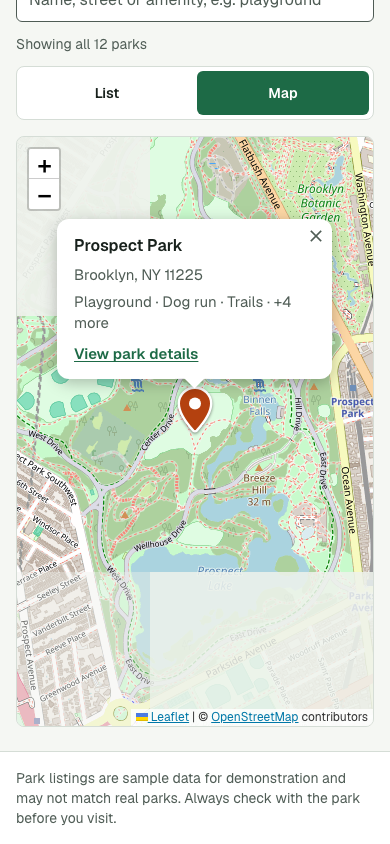
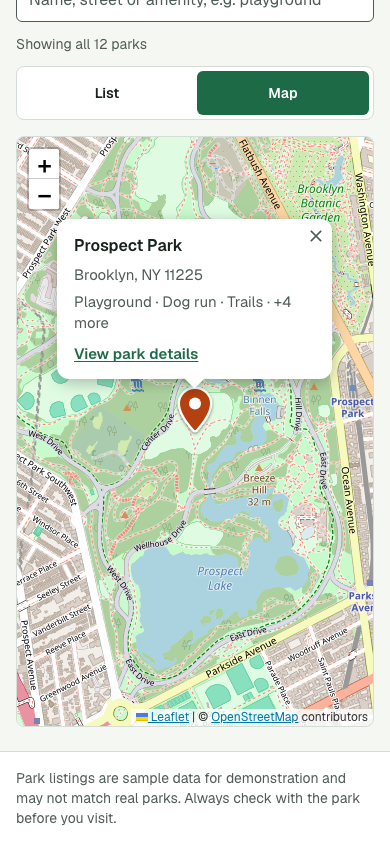
Center a park on the map when its card is clicked; settle screenshots
- On wide screens, clicking a list card (outside its links and buttons)
  selects the park and pans the map to it at the current zoom, without
  opening a popup or moving focus. 'Show on map' remains the keyboard
  path and still opens the popup.
- Screenshots now wait for every map tile to load and finish fading in.
- Fix a flaky e2e failure: a route handler from the 'map code fails'
  test could outlive its page and be reported against the next test.

Changed region(s): [[0.0308, 0.6777, 0.9538, 0.8626], [0.0308, 0.154, 0.4, 0.4005]]

diff --git a/src/components/park-map.tsx b/src/components/park-map.tsx
@@ -18,6 +18,12 @@ const POPUP_MAX_WIDTH = 220;
 
 export type ShowOnMapRequest = {
   parkId: string;
+  /**
+   * "open": zoom in if needed and open the park's popup ("Show on map").
+   * "center": just pan to it at the current zoom and select it (clicking a
+   * list card), without opening a popup or moving focus.
+   */
+  mode: "open" | "center";
   /** Changes on every request so asking for the same park twice still works. */
   nonce: number;
 };
@@ -45,6 +51,9 @@ export default function ParkMap({
   const [tilesFailed, setTilesFailed] = useState(false);
   const anyTileLoaded = useRef(false);
   const reducedMotion = usePrefersReducedMotion();
+  // Set while ShowOnMap closes a popup itself, so focus isn't pulled back to
+  // whatever opened that popup.
+  const closingQuietlyRef = useRef(false);
 
   return (
     <div className="park-map relative h-full w-full">
@@ -81,7 +90,7 @@ export default function ParkMap({
         />
         <InvalidateSizeOnResize />
         <MapKeyboardSupport instructionsId={instructionsId} />
-        <PopupFocusManager />
+        <PopupFocusManager closingQuietlyRef={closingQuietlyRef} />
         {parks.map((park) => (
           <ParkMarker
             key={park.id}
@@ -96,6 +105,8 @@ export default function ParkMap({
           request={showRequest}
           parks={parks}
           reducedMotion={reducedMotion}
+          onSelect={onSelect}
+          closingQuietlyRef={closingQuietlyRef}
         />
       </StableMapContainer>
       {tilesFailed && (
@@ -226,15 +237,19 @@ function ParkPopup({ park }: { park: ParkWithCoordinates }) {
   );
 }
 
-/** Pans to a park and opens its popup when the list asks for it. */
+/** Pans to a park (and maybe opens its popup) when the list asks for it. */
 function ShowOnMap({
   request,
   parks,
   reducedMotion,
+  onSelect,
+  closingQuietlyRef,
 }: {
   request: ShowOnMapRequest | null;
   parks: ParkWithCoordinates[];
   reducedMotion: boolean;
+  onSelect: (parkId: string | null) => void;
+  closingQuietlyRef: React.RefObject<boolean>;
 }) {
   const map = useMap();
   const handledNonce = useRef<number | null>(null);
@@ -253,6 +268,20 @@ function ShowOnMap({
     // The map may have just been revealed (mobile List/Map toggle) and still
     // think it is 0x0, which would break centering.
     map.invalidateSize();
+
+    if (request.mode === "center") {
+      // Another park's popup would contradict the new selection, so close it
+      // (its popupclose clears the selection; set it again after).
+      closingQuietlyRef.current = true;
+      map.closePopup();
+      closingQuietlyRef.current = false;
+      onSelect(park.id);
+      map.panTo([park.coordinates.lat, park.coordinates.lng], {
+        animate: !reducedMotion,
+      });
+      return;
+    }
+
     // Open the popup only once the map has arrived. Opening it during the
     // animation stops the pan partway (popup auto-pan and moving focus into
     // the popup both interrupt it), leaving the park off-center. Leaflet
@@ -327,7 +356,11 @@ function MapKeyboardSupport({ instructionsId }: { instructionsId: string }) {
  * whatever opened it (a marker or a "Show on map" button) when it closes, so
  * keyboard users never lose their place.
  */
-function PopupFocusManager() {
+function PopupFocusManager({
+  closingQuietlyRef,
+}: {
+  closingQuietlyRef: React.RefObject<boolean>;
+}) {
   const map = useMap();
 
   useEffect(() => {
@@ -359,7 +392,7 @@ function PopupFocusManager() {
         (container?.contains(active) ?? false);
       const returnTo = opener;
       opener = null;
-      if (!focusWasInPopup) return;
+      if (!focusWasInPopup || closingQuietlyRef.current) return;
 
       // Prefer the element that opened the popup. If it is gone or hidden
       // (the mobile list is hidden while the map shows), use the marker.
@@ -381,7 +414,7 @@ function PopupFocusManager() {
       map.off("popupopen", onOpen);
       map.off("popupclose", onClose);
     };
-  }, [map]);
+  }, [map, closingQuietlyRef]);
 
   return null;
 }

diff --git a/src/components/park-list.tsx b/src/components/park-list.tsx
@@ -14,9 +14,16 @@ type ParkListProps = {
   parks: Park[];
   selectedId: string | null;
   onShowOnMap: (parkId: string) => void;
+  /** Clicking a card (outside its links and buttons) centers it on the map. */
+  onCenterOnMap: (parkId: string) => void;
 };
 
-export function ParkList({ parks, selectedId, onShowOnMap }: ParkListProps) {
+export function ParkList({
+  parks,
+  selectedId,
+  onShowOnMap,
+  onCenterOnMap,
+}: ParkListProps) {
   return (
     // role="list" because Safari drops list semantics from unstyled lists.
     <ul role="list" className="flex flex-col gap-3" aria-label="Parks">
@@ -26,6 +33,7 @@ export function ParkList({ parks, selectedId, onShowOnMap }: ParkListProps) {
             park={park}
             selected={park.id === selectedId}
             onShowOnMap={onShowOnMap}
+            onCenterOnMap={onCenterOnMap}
           />
         </li>
       ))}
@@ -37,10 +45,12 @@ function ParkCard({
   park,
   selected,
   onShowOnMap,
+  onCenterOnMap,
 }: {
   park: Park;
   selected: boolean;
   onShowOnMap: (parkId: string) => void;
+  onCenterOnMap: (parkId: string) => void;
 }) {
   const headingId = `park-card-${park.id}`;
   const amenitiesId = `park-card-${park.id}-amenities`;
@@ -54,11 +64,18 @@ function ParkCard({
     : park.amenities.slice(0, CARD_AMENITY_LIMIT);
 
   return (
+    // A mouse shortcut only: the card's "Show on map" button does the same
+    // for keyboard and screen reader users, so the card itself isn't a control.
     <article
       aria-labelledby={headingId}
       data-park-card={park.id}
+      onClick={(event) => {
+        const onControl = (event.target as Element).closest("a, button");
+        if (park.coordinates && !onControl) onCenterOnMap(park.id);
+      }}
       className={cn(
         "flex flex-col gap-2 rounded-lg border bg-surface p-4 transition-colors",
+        park.coordinates && "lg:cursor-pointer",
         selected
           ? "border-accent bg-accent-soft ring-1 ring-accent"
           : "border-border",

diff --git a/scripts/screenshots.spec.ts b/scripts/screenshots.spec.ts
@@ -2,7 +2,26 @@
  * Regenerates the screenshots in docs/screenshots (used by the README).
  * Run with `pnpm screenshots`. Not part of the test suite.
  */
+import type { Page } from "@playwright/test";
 import { expect, test } from "../e2e/fixtures";
+
+/** Waits until every visible map tile has loaded and finished fading in. */
+async function waitForMapToSettle(page: Page) {
+  await page.waitForLoadState("networkidle");
+  await page.waitForFunction(() => {
+    const tiles = [...document.querySelectorAll<HTMLElement>(".leaflet-tile")];
+    return (
+      tiles.length > 0 &&
+      tiles.every(
+        (tile) =>
+          tile.classList.contains("leaflet-tile-loaded") &&
+          getComputedStyle(tile).opacity === "1",
+      ) &&
+      !document.querySelector(".leaflet-zoom-anim")
+    );
+  });
+  await page.waitForTimeout(300); // one more beat for marker and popup paint
+}
 
 const OUT = "docs/screenshots";
 
@@ -31,7 +50,7 @@ for (const [device, viewport] of Object.entries(sizes)) {
         await expect(
           page.getByRole("link", { name: /View park details/ }),
         ).toBeVisible();
-        await page.waitForTimeout(400); // let the pan animation settle
+        await waitForMapToSettle(page);
         await page.screenshot({
           path: `${OUT}/${device}-${colorScheme}-map.png`,
         });
@@ -42,7 +61,7 @@ for (const [device, viewport] of Object.entries(sizes)) {
         await expect(
           page.getByRole("img", { name: /Prospect Park Boathouse/ }),
         ).toBeVisible();
-        await page.waitForLoadState("networkidle");
+        await waitForMapToSettle(page); // the location preview
         await page.screenshot({
           path: `${OUT}/${device}-${colorScheme}-details.png`,
           fullPage: true,

diff --git a/e2e/regressions.spec.ts b/e2e/regressions.spec.ts
@@ -152,3 +152,38 @@ test("“Show on map” centers the park even when the map is already zoomed in"
   expect(Math.abs(tipX - (map.x + map.width / 2))).toBeLessThan(5);
   expect(Math.abs(tipY - (map.y + map.height / 2))).toBeLessThan(5);
 });
+
+test("clicking a park's card centers it on the map at the current zoom", async ({
+  page,
+}, testInfo) => {
+  test.skip(isMobile(testInfo.project.name), "list and map side by side only");
+  await page.goto("/");
+  await expect(page.locator(".park-marker")).toHaveCount(12);
+  const zoom = () =>
+    page
+      .locator(".leaflet-tile")
+      .first()
+      .getAttribute("src")
+      .then((src) => src?.split("/").at(-3));
+  const zoomBefore = await zoom();
+
+  // Click the card itself (its address), not its links or buttons.
+  await page
+    .locator('[data-park-card="willow-creek-wetlands"]')
+    .getByText("Creek Rd")
+    .click();
+  await expect(
+    page.locator('[data-park-card="willow-creek-wetlands"]'),
+  ).toHaveAttribute("class", /border-accent/);
+  await expect(page.locator(".park-marker--selected")).toHaveCount(1);
+  await expect(page.locator(".leaflet-popup")).toHaveCount(0);
+  await page.waitForTimeout(600); // let the pan finish
+
+  const map = (await page.locator(".leaflet-container").boundingBox())!;
+  const pin = (await page
+    .locator('.park-marker[data-park-id="willow-creek-wetlands"]')
+    .boundingBox())!;
+  expect(Math.abs(pin.x + 22 - (map.x + map.width / 2))).toBeLessThan(5);
+  expect(Math.abs(pin.y + 42 - (map.y + map.height / 2))).toBeLessThan(5);
+  expect(await zoom()).toBe(zoomBefore);
+});

diff --git a/src/components/park-list.test.tsx b/src/components/park-list.test.tsx
@@ -30,12 +30,13 @@ const sparse: Park = {
   rating: null,
 };
 
-function renderList(onShowOnMap = vi.fn()) {
+function renderList(onShowOnMap = vi.fn(), onCenterOnMap = vi.fn()) {
   render(
     <ParkList
       parks={[full, sparse]}
       selectedId={null}
       onShowOnMap={onShowOnMap}
+      onCenterOnMap={onCenterOnMap}
     />,
   );
   return {
@@ -93,6 +94,28 @@ describe("ParkList", () => {
       within(sparse).queryByRole("list", { name: "Amenities" }),
     ).toBeNull();
     expect(within(sparse).queryByRole("button")).toBeNull();
+  });
+
+  it("centers a park when its card is clicked, but not via its controls", async () => {
+    const onShowOnMap = vi.fn();
+    const onCenterOnMap = vi.fn();
+    const { full, sparse } = renderList(onShowOnMap, onCenterOnMap);
+
+    await userEvent.click(within(full).getByText("1 Main St"));
+    expect(onCenterOnMap).toHaveBeenCalledWith("full-park");
+
+    onCenterOnMap.mockClear();
+    await userEvent.click(
+      within(full).getByRole("button", { name: /Show on map/ }),
+    );
+    await userEvent.click(
+      within(full).getByRole("button", { name: /more amenities/ }),
+    );
+    expect(onCenterOnMap).not.toHaveBeenCalled();
+
+    // A park with no location has nothing to center on.
+    await userEvent.click(within(sparse).getByText("Address not listed"));
+    expect(onCenterOnMap).not.toHaveBeenCalled();
   });
 
   it("asks to show the park on the map", async () => {

diff --git a/src/components/park-explorer.tsx b/src/components/park-explorer.tsx
@@ -22,6 +22,9 @@ const ParkMap = dynamic(() => import("./park-map"), {
 
 type View = "list" | "map";
 
+/** Matches Tailwind's `lg` breakpoint, where list and map sit side by side. */
+const SIDE_BY_SIDE_QUERY = "(min-width: 64rem)";
+
 /**
  * The list and the map side by side (or one at a time on small screens),
  * with a shared search and a shared selection: opening a marker highlights
@@ -58,6 +61,18 @@ export function ParkExplorer({ parks }: { parks: Park[] }) {
     setView("map");
     setShowRequest((previous) => ({
       parkId,
+      mode: "open",
+      nonce: (previous?.nonce ?? 0) + 1,
+    }));
+  }, []);
+
+  // Clicking a card centers its park on the map, but only where the map is
+  // next to the list; on phones a tap on a card shouldn't switch views.
+  const centerOnMap = useCallback((parkId: string) => {
+    if (!window.matchMedia(SIDE_BY_SIDE_QUERY).matches) return;
+    setShowRequest((previous) => ({
+      parkId,
+      mode: "center",
       nonce: (previous?.nonce ?? 0) + 1,
     }));
   }, []);
@@ -104,6 +119,7 @@ export function ParkExplorer({ parks }: { parks: Park[] }) {
             parks={results}
             selectedId={selectedId}
             onShowOnMap={showOnMap}
+            onCenterOnMap={centerOnMap}
           />
         ) : (
           <div className="flex flex-col items-start gap-3 rounded-lg border border-dashed border-border p-6">

diff --git a/e2e/home.spec.ts b/e2e/home.spec.ts
@@ -243,5 +243,9 @@ test.describe("when the map can't load", () => {
       await page.getByRole("link", { name: "Prospect Park" }).click();
       await expect(page).toHaveURL(/\/parks\/prospect-park$/);
     }
+    // Stop intercepting before the page closes; otherwise an in-flight
+    // handler can throw "Response has been disposed", which Playwright then
+    // reports against whichever test runs next in this worker.
+    await page.unrouteAll({ behavior: "ignoreErrors" });
   });
 });

diff --git a/README.md b/README.md
@@ -48,7 +48,9 @@ it); locally it reuses a server already running on that port. CI
   name links to its details page.
 - **Map** (Leaflet + OpenStreetMap tiles) with a marker per park. Selecting a
   marker opens a summary with a link to the park's details, and highlights
-  the park in the list. "Show on map" on a list card does the reverse.
+  the park in the list. "Show on map" on a list card does the reverse, and
+  on wide screens clicking a card centers its park on the map (keeping your
+  zoom).
 - **Park details** page for each park: description, amenities, photos,
   hours, address, size, rating and a "Get directions" link (Google Maps, no
   key needed). Every page has its own URL and title.
@@ -200,10 +202,10 @@ Target: WCAG 2.2 AA.
 
 **Automated** (all run in CI):
 
-- 60 unit and component tests (Vitest + Testing Library): data
+- 61 unit and component tests (Vitest + Testing Library): data
   normalization for every missing/invalid case, search, formatting, amenity
   ordering, when fallback photos may and may not appear, and park cards.
-- 88 browser tests (Playwright; 85 run, 3 apply to one device only)
+- 90 browser tests (Playwright; 86 run, 4 apply to one device only)
   against a production build, on a desktop and a phone viewport: keyboard-only flows (list → details, markers with
   Enter/Space/Escape, skip link, focus after navigation), search, the 404
   page, missing data on the real sample parks, map tiles failing, the map
